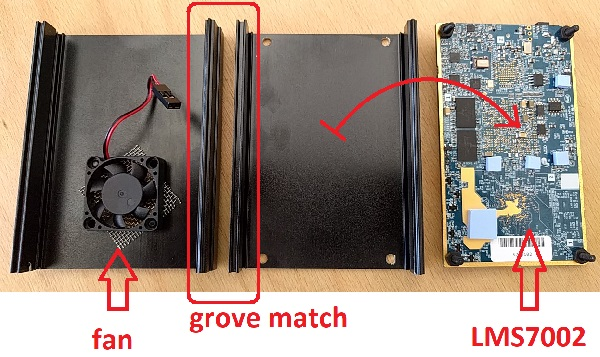
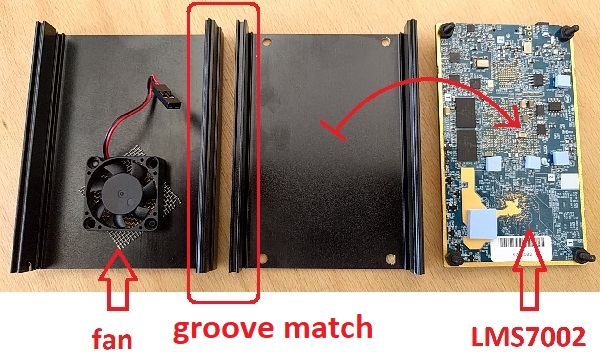
New photos and updated instructions

Changed region(s): [[0.27, 0.8627, 0.63, 0.986]]

diff --git a/hardware/enclosure/1v0_76x35_kpl/Instructions.md b/hardware/enclosure/1v0_76x35_kpl/Instructions.md
@@ -2,8 +2,11 @@
 #### 1. Checklist:
 In the beginning check that you have everything available and ready
 ##### Materials:
-You need to get separately LimeSDR board and 6x/12x SMA U.FL pigtails (5cm/2inch in this manual)
-![Materials](./photos/instructions/1.jpg)
+You need to get separately:
+- LimeSDR board
+- 12x SMA U.FL pigtails (5cm/2inch in this manual)
+
+![Materials](./photos/instructions/12.jpg)
 
 ##### Checklist for KIT:
 - alu shell bottom (4 holes)
@@ -16,25 +19,30 @@ You need to get separately LimeSDR board and 6x/12x SMA U.FL pigtails (5cm/2inch
 - pinheader
 - heatpad (1pcs, cut later into more pcs)
 - heatsinks (1x + 2x + 3x)
-- PCB panel (2x front, rear)
+- PCB panel (front, rear)
 - 8 panel screws, torx
 - 4 bicolor LEDs
+- 2 LED holders
 
 ##### Tools:
+- soldering iron kit
 - basic screwdriver set ([link]( https://www.ebay.com/sch/i.html?_nkw=31+in+1+screwdriver))
 - sandpaper OR diamond files
 - wrench size 8 (8 mm) for SMA pigtails
-- soldering iron kit
 
-photos needed
 ___
 #### 2. Prepare LimeSDR board:
 ##### for FAN:
-Populate 0.1" pinheader on the board
-photos needed
+Populate/solder 0.1" pinheader on the board
+![Pinheader](./photos/instructions/13.jpg)
 ##### for LEDs:
-Solder all 4 bicolour LEDs
-photos needed
+
+![LEDs](./photos/instructions/14.jpg)
+1. cut plastic lip on LEDs and use sandpaper to wear plastic off around both leads
+2. test with multimeter (diode or small resistance test)  leds work (red and green)
+3. LED orientation, holder orientation !!! longer lead is on right side when inserting leds
+4. bend leads down
+5. solder on board
 ___
 #### 3. Mount fan on top shell:
 ![Fan](./photos/instructions/2.jpg)
@@ -57,10 +65,10 @@ ___
 #### 6. Screw on bottom shell:
 ![Bottom_shell](./photos/instructions/5.jpg)
 
-##### !!! WARNING: Orientation of both shells is very important when mounting, see shell groves
+##### !!! WARNING: Orientation of both shells is very important when mounting, see shell grooves
 1. place all three components as on photo
 1.a fan on bottom
-1.b groves that fit together
+1.b grooves that fit together
 1.c RF IC on bottom
 2. turn bottom shell over and screw remaining 4 plastic nuts
 ___
@@ -72,7 +80,7 @@ ___
 #### 8. Prepare front and rear panel:
 ![Panels](./photos/instructions/7.jpg)
 
-Chose how many SMA connectors you need on front panel, break tabs and use a diamond file or sandpaper. Use 8mm wrench to tighten SMA connectors firmly.
+Use 8mm wrench to tighten SMA connectors firmly.
 
 ![Panels](./photos/instructions/8.jpg)
 
@@ -91,13 +99,11 @@ ___
 #### 10. Attach heatsinks and fan:
 ![Panels](./photos/instructions/11.jpg)
 
-All heatsinks are rotated as airflow.
-green - small | red - medium | blue - big
-Fan connector as photo (red wire toward front panel)
+All heatsinks are rotated as airflow. | green - small | red - medium | blue - big | Fan connector as photo (red wire toward front panel)
 
 Check FAN operation by manually changing state ON/OFF: https://github.com/luftek/LimeSDR-USB/issues/19
 
-Continue using you LimeSDR! ;)
+Continue using your LimeSDR! ;)
 ___
 Please place an issue OR send eBay message if something should be improved. Thank you!
 
